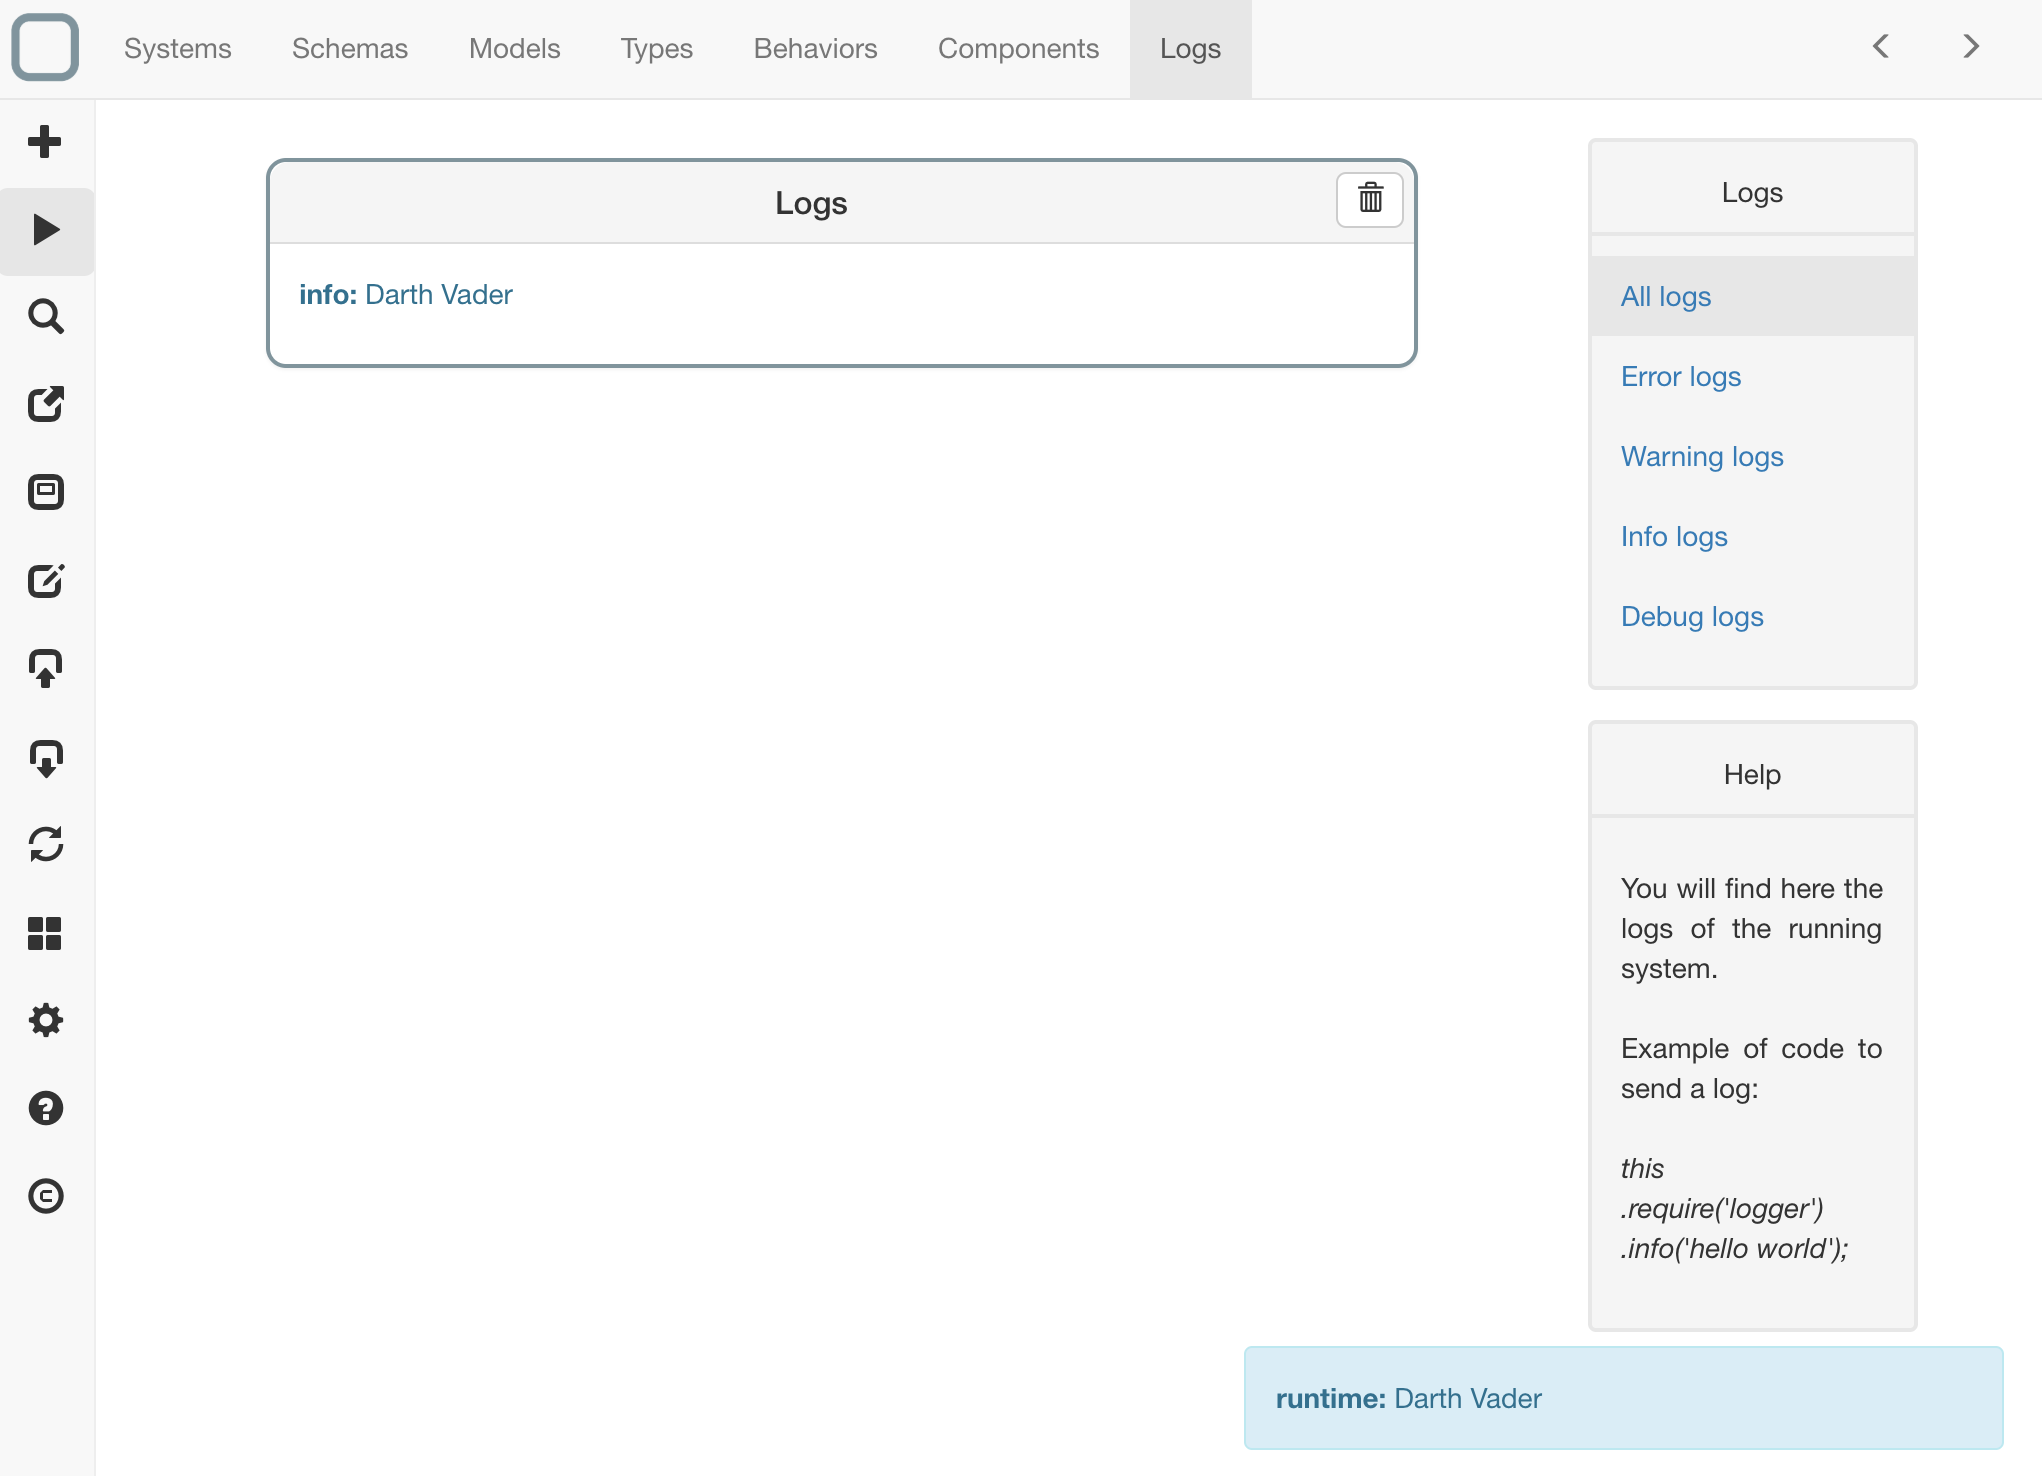
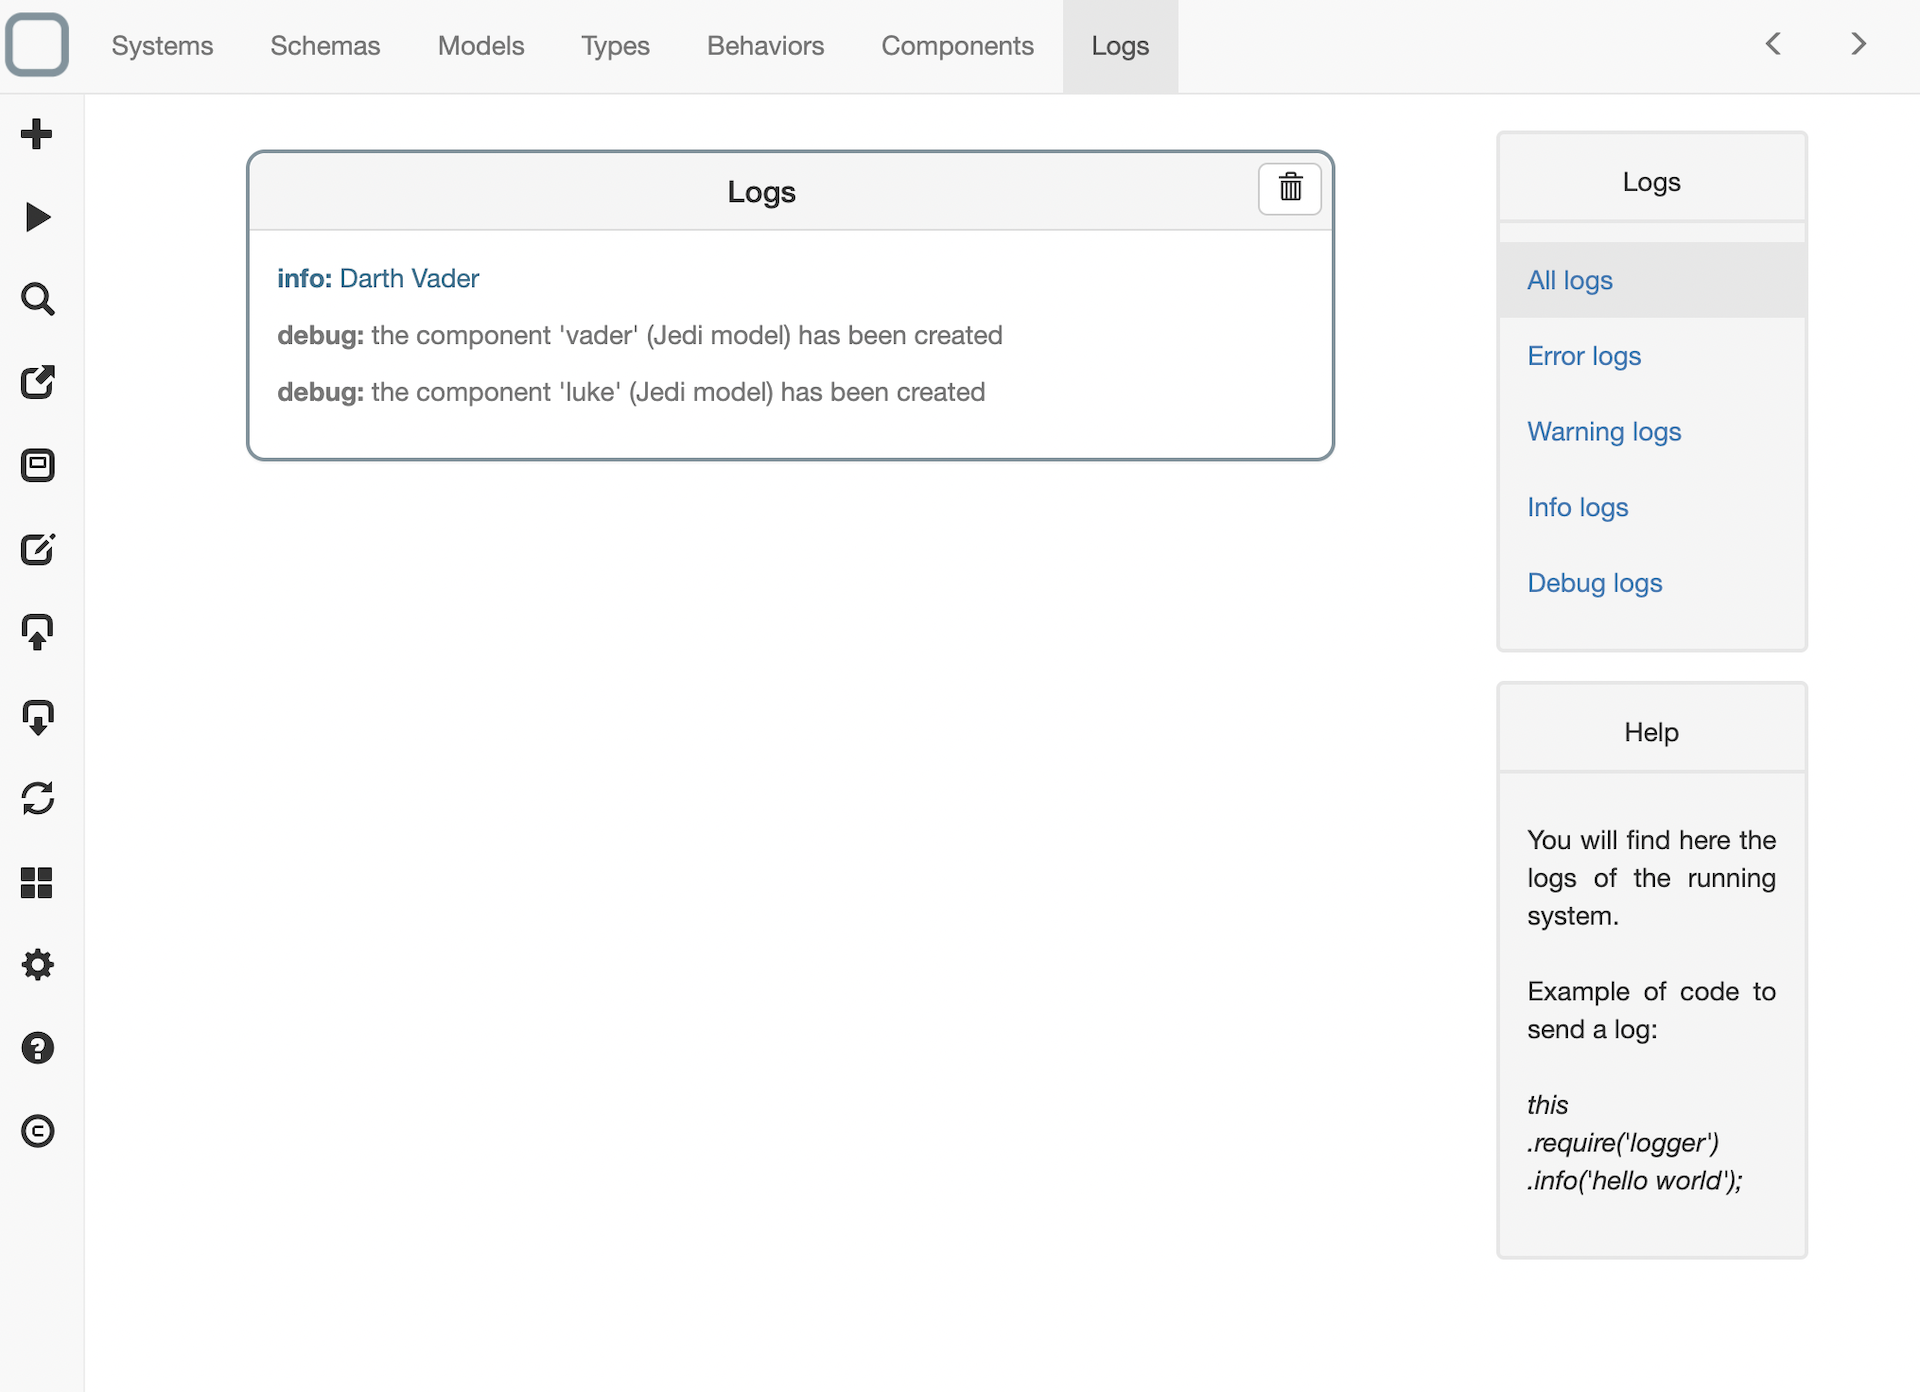
update documentation

diff --git a/docs/Quick Start.md b/docs/Quick Start.md
@@ -271,12 +271,14 @@ function start() {
 >
 >A **logger** component is available to log messages in System Designer.
 
-## Test the system
+## Run the system
 
-* click on the run button on the left and
-* click on the **Logs** tab and you will see the result.
+* click on the run button on the left  (the 2nd button from the top) and
+* click on the **Logs** tab and you will see the result of the execution of your system.
 
 ![Image Alt](../../img/cde4bc9-quick-start-12.png)
+
+>You will also get there the traces of your system that is executed. You will have a log everytime a component is created, updated or deleted at runtime. 
 
 ## View the class diagram of your system
 
